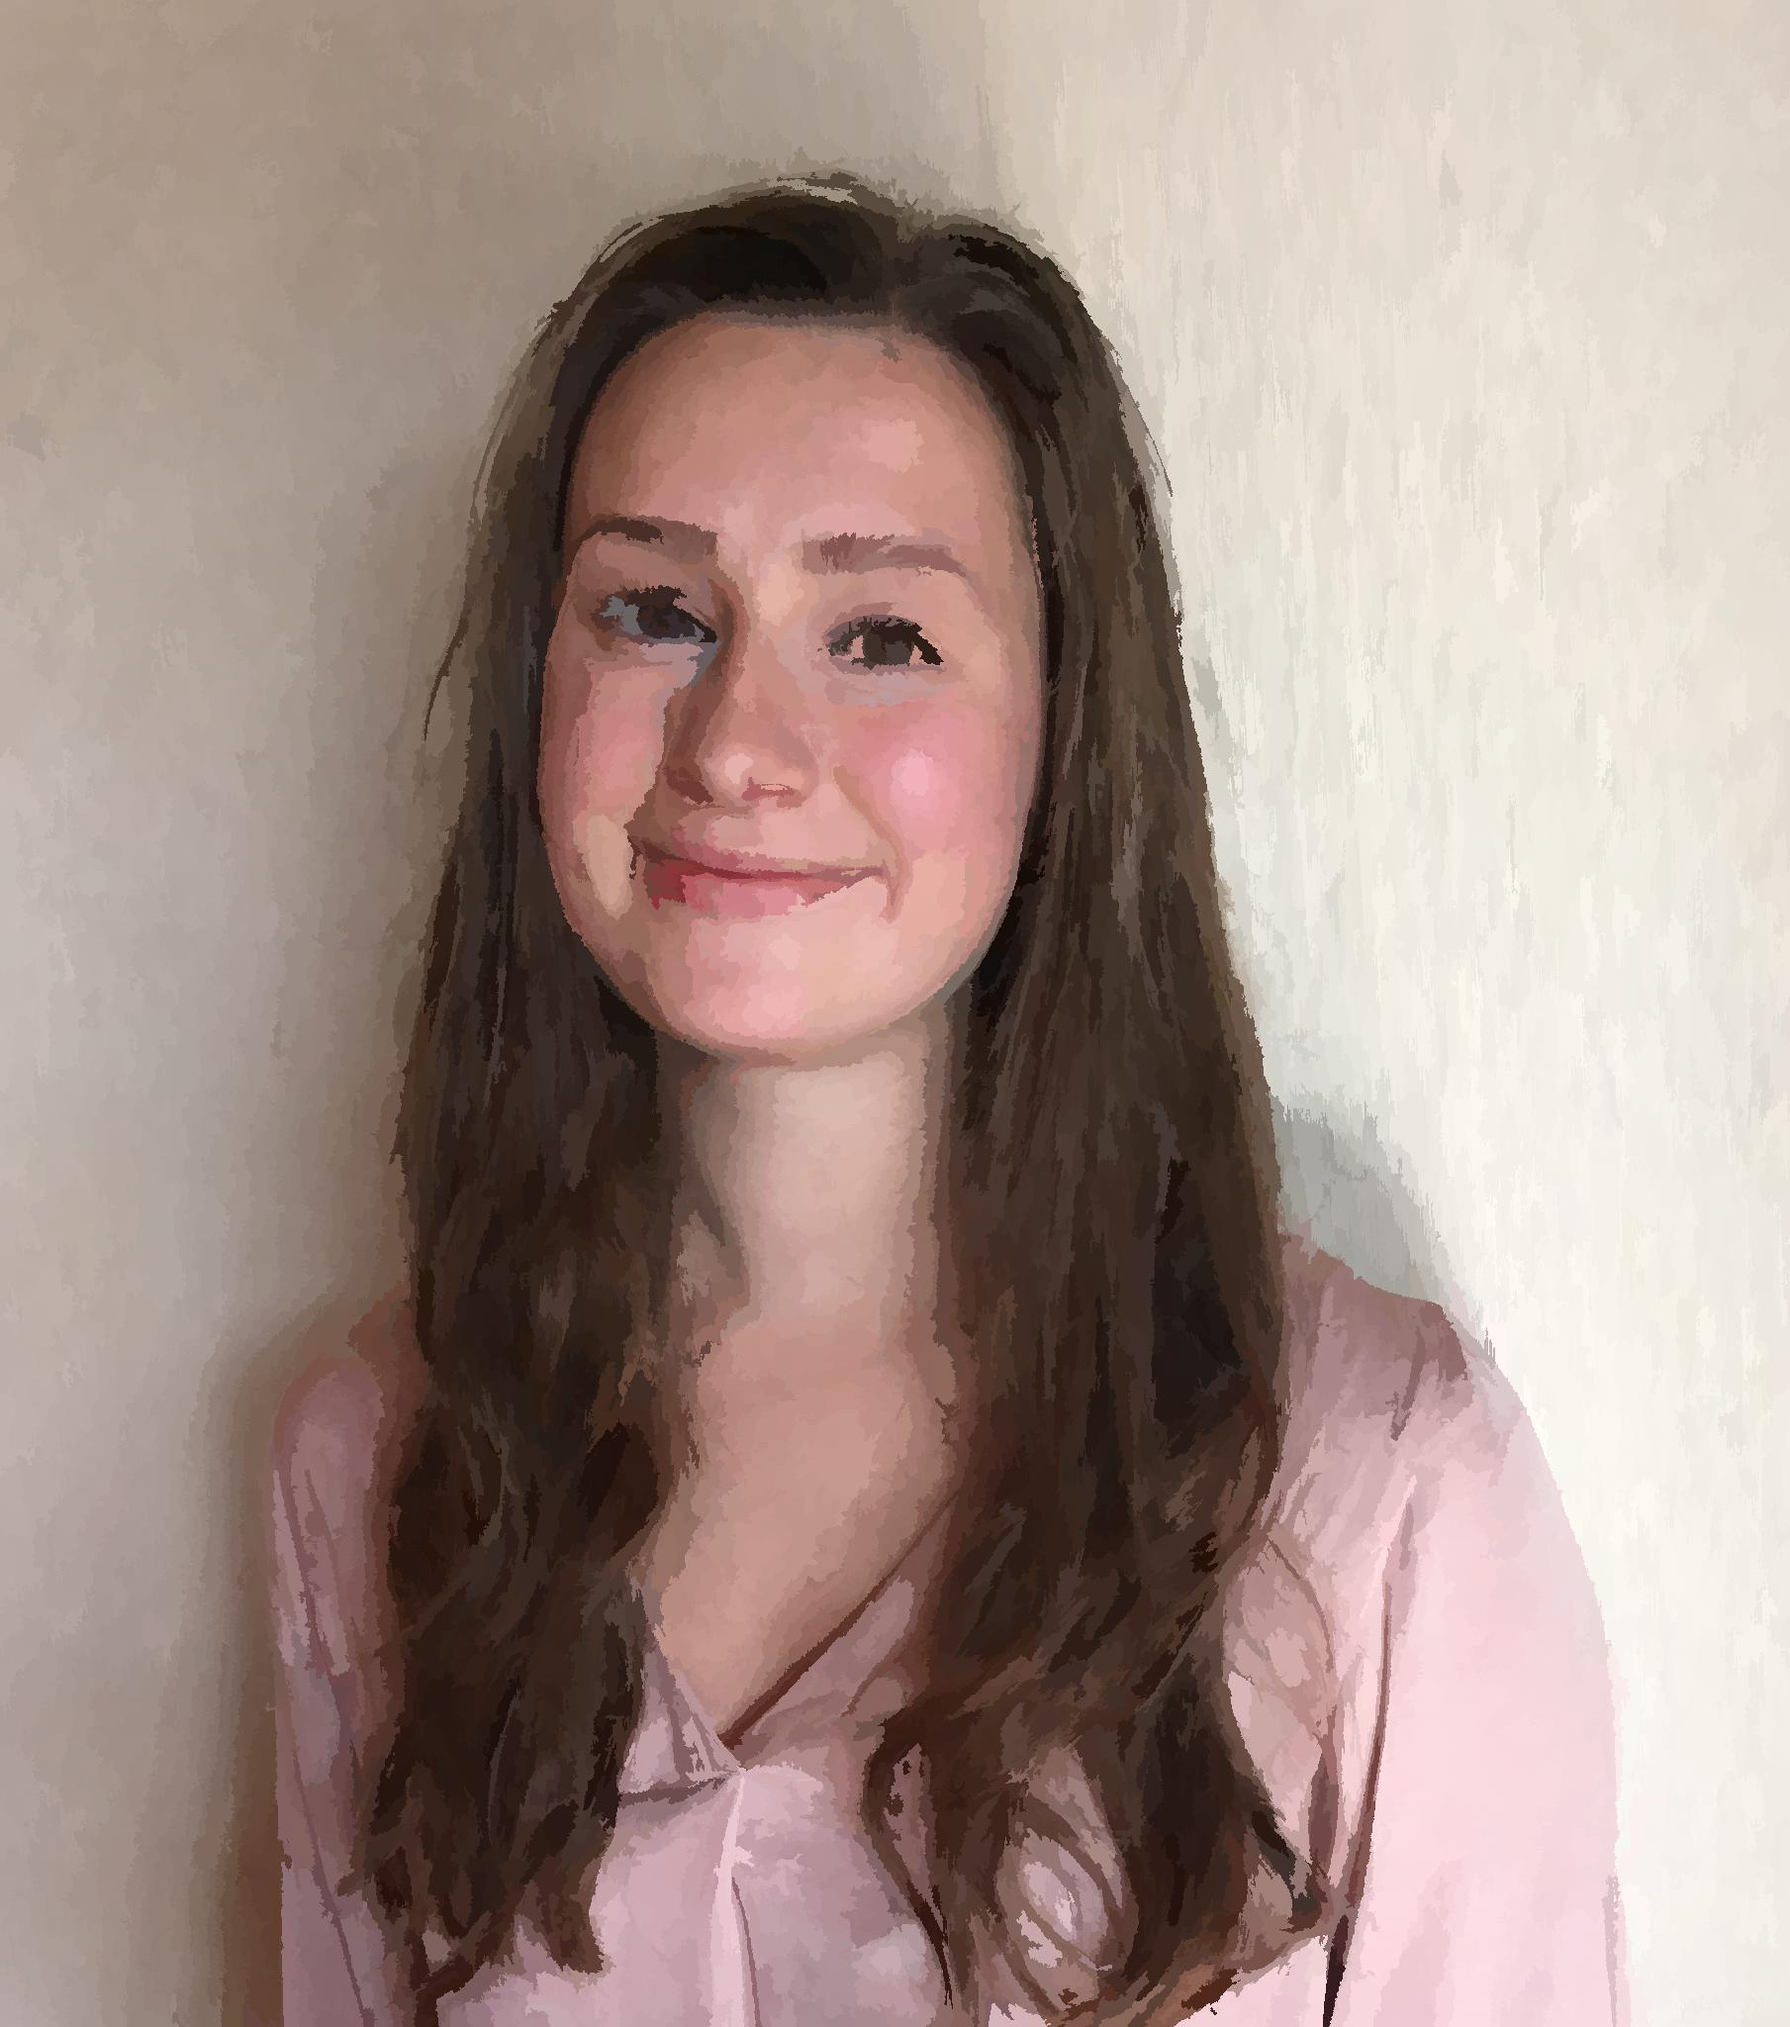
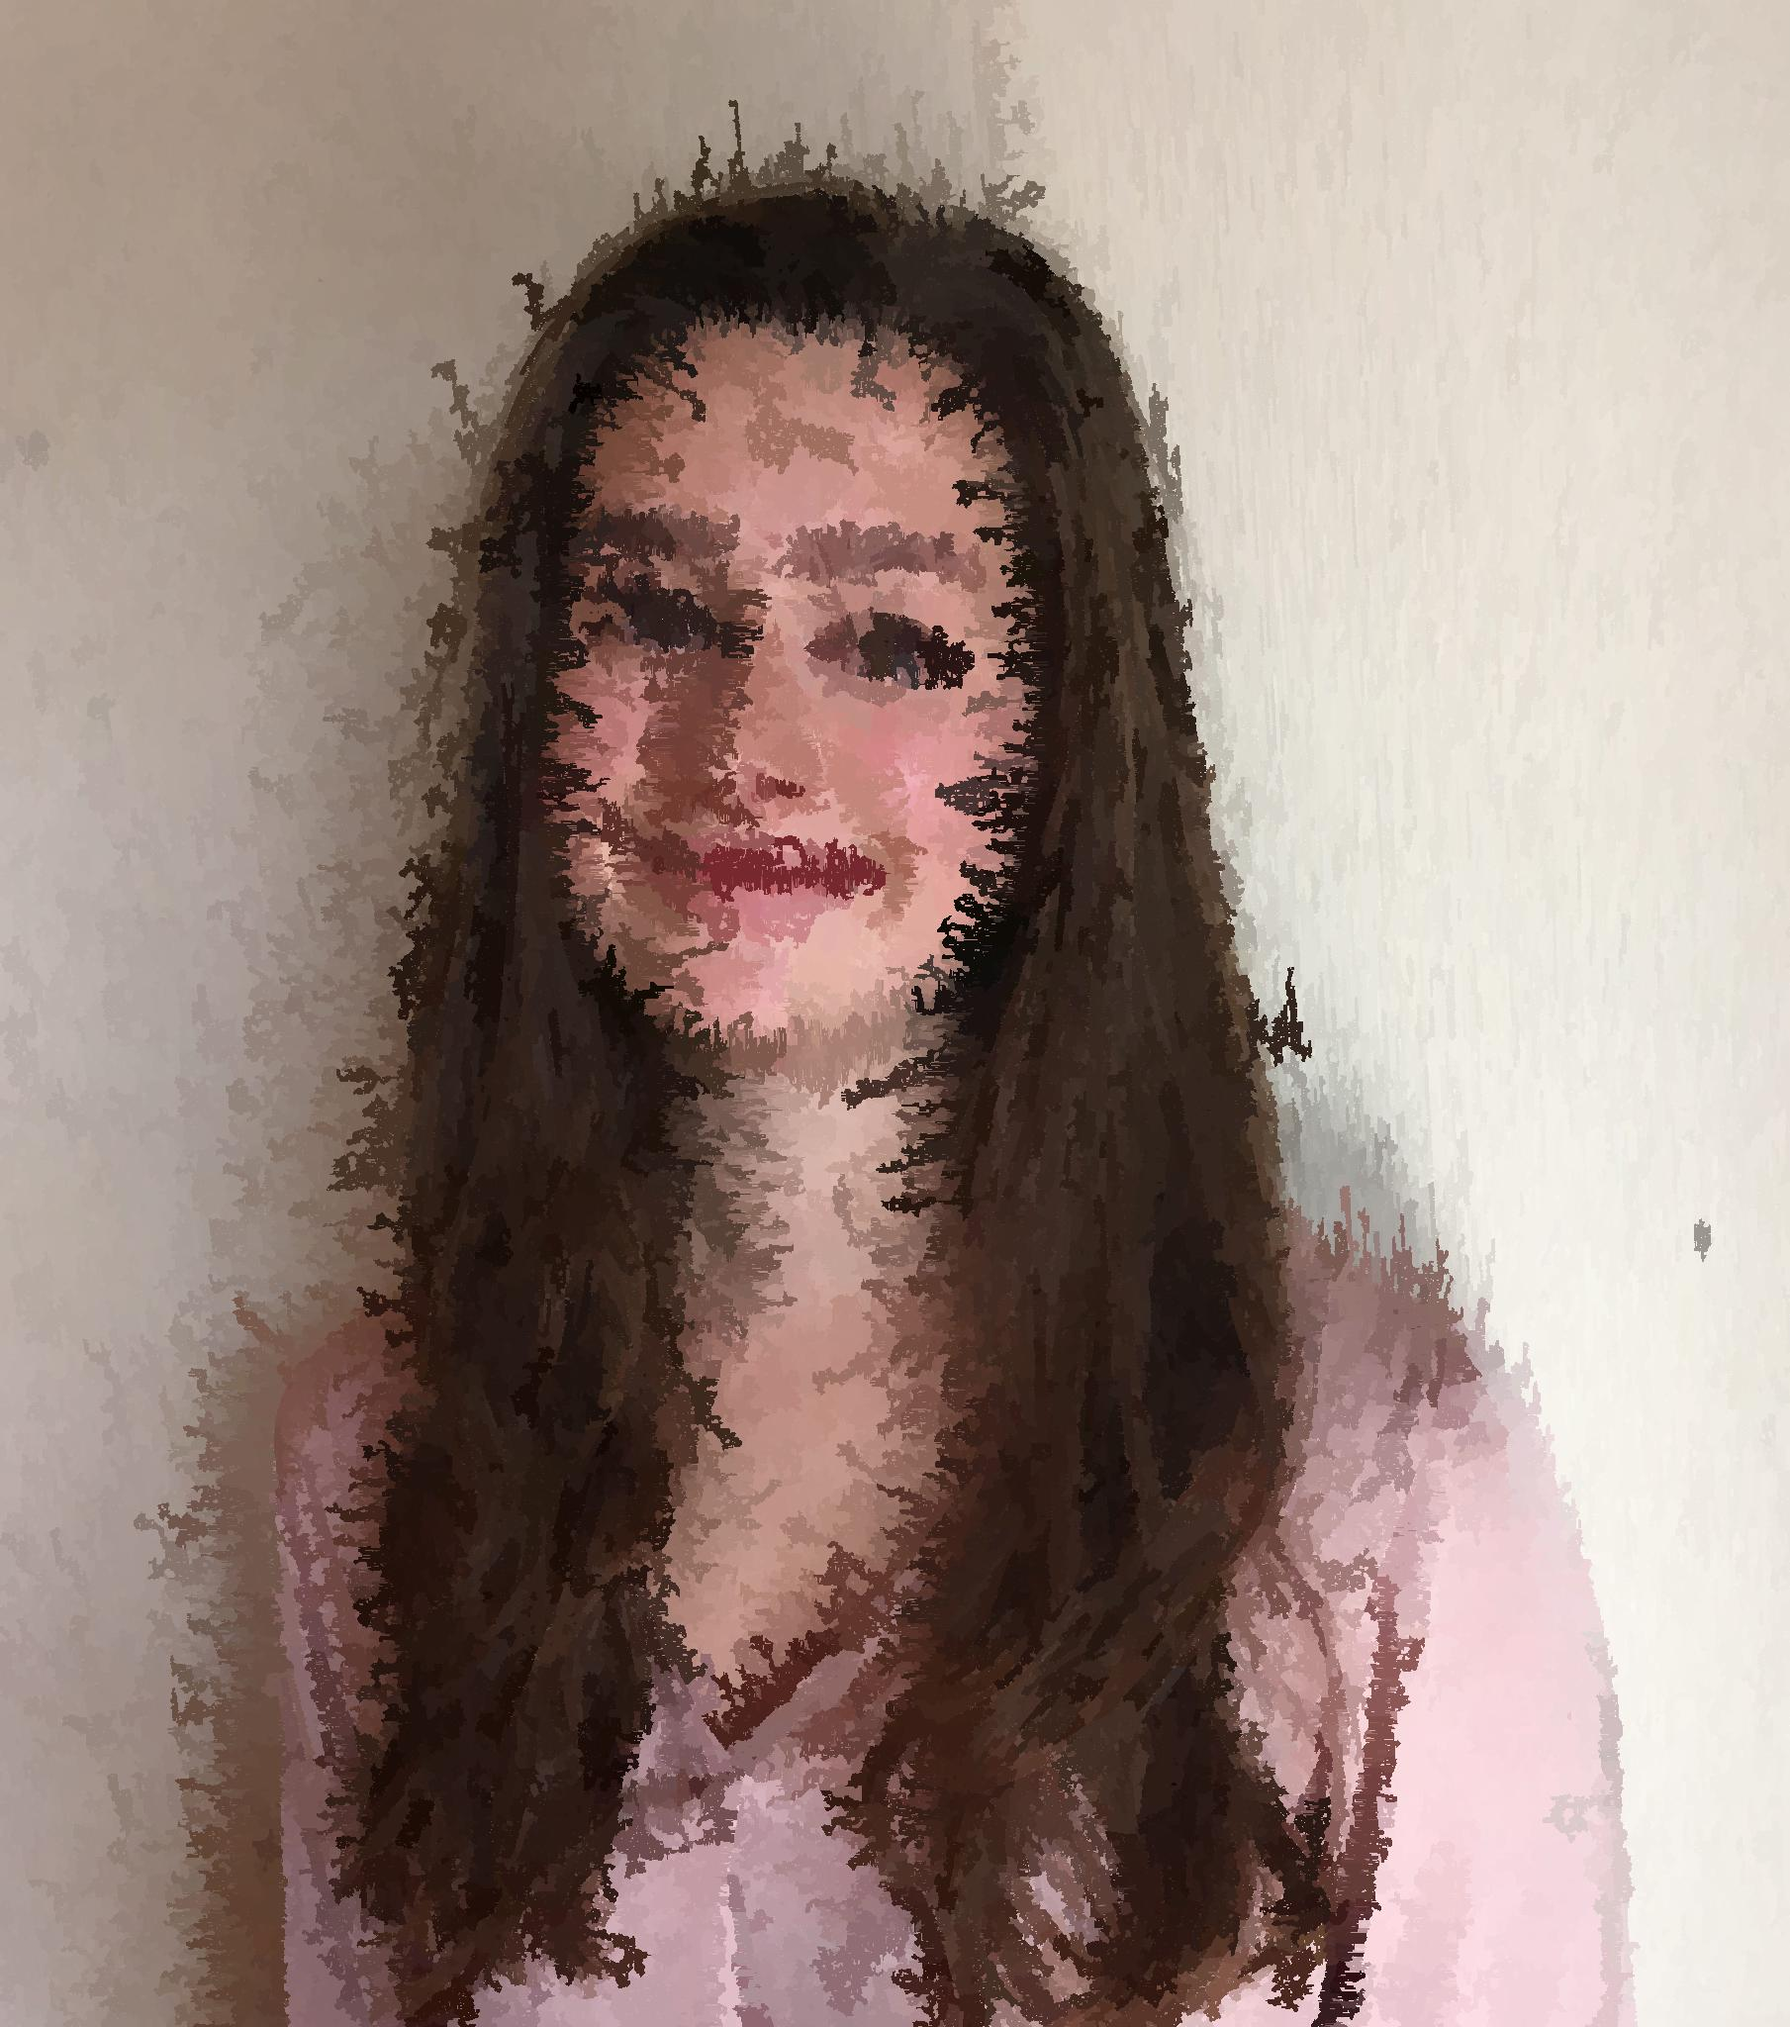
Prims with brakepoints

Changed region(s): [[0.0619, 0.0312, 0.8668, 1.0], [0.8668, 0.8438, 0.9287, 0.9375], [0.9287, 0.5938, 0.9596, 0.625]]

diff --git a/task2/src/Main.java b/task2/src/Main.java
@@ -14,7 +14,7 @@ public class Main {
         Change these
          */
         String path = "3";
-        int numSegments = 1000;
+        int numSegments = 100;
         int numPopulations = 20;
         int numIndividuals = 20;
 
@@ -34,13 +34,12 @@ public class Main {
 
         ArrayList<Node> rootNodes = Helpers.initRootNodes(nodes, numSegments);
 
-
-        System.out.println(rootNodes.size());
-
+        rootNodes.add(nodes.get(0).get(0));
+        nodes.get(0).get(0).setRoot(true);
 
         for(Node rootNode : rootNodes){
             ArrayList<Node> segment = BFS.BFS(rootNode);
-            System.out.println(segment.size());
+
             for(Node n : segment){
                 img = changeImage(img, n, rootNode);
             }

diff --git a/task2/src/Helpers.java b/task2/src/Helpers.java
@@ -156,6 +156,9 @@ public abstract class Helpers {
         int r2 = (argb2 >> 16) & 255;
         int g2 = (argb2 >> 8) & 255;
         int b2 = (argb2) & 255;
+
+        //return ColorEuclideanDistance(new Color(r1, g1, b1), new Color(r2, g2, b2));
+
         return Math.sqrt(r1 * r2 + g1 * g2 + b1 * b2);
     }
 

diff --git a/task2/src/MST.java b/task2/src/MST.java
@@ -14,9 +14,11 @@ class MST {
         pqueue = new PriorityQueue<>();
         pqueueHash = new HashSet<>();
         memoizer = new HashMap<>();
+
         //Set initial condition
         start.setCost(0);
         pqueue.offer(start);
+
 
 
     }

diff --git a/task2/src/BFS.java b/task2/src/BFS.java
@@ -3,7 +3,6 @@ import java.util.LinkedList;
 
 public class BFS {
 
-
     public static ArrayList<Node> BFS(Node startNode) {
 
         LinkedList<Node> BFSQueue = new LinkedList<>();
